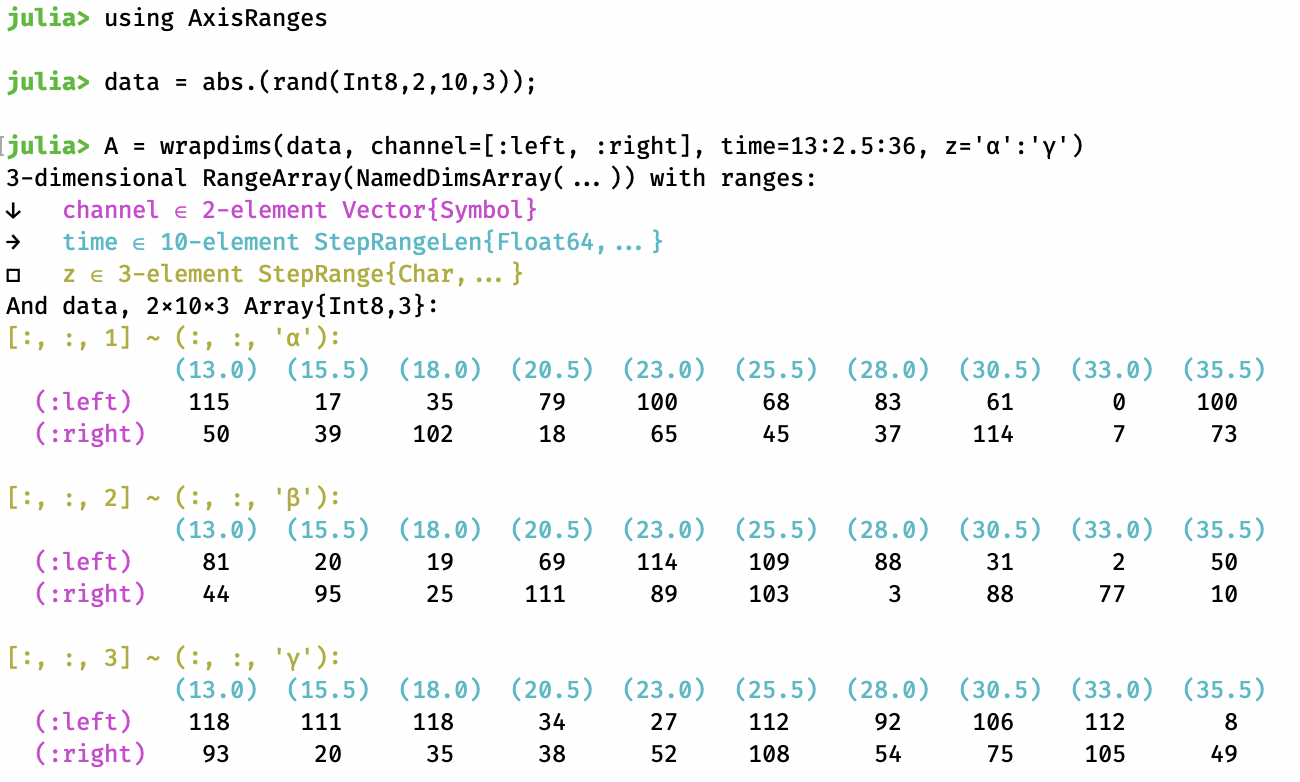
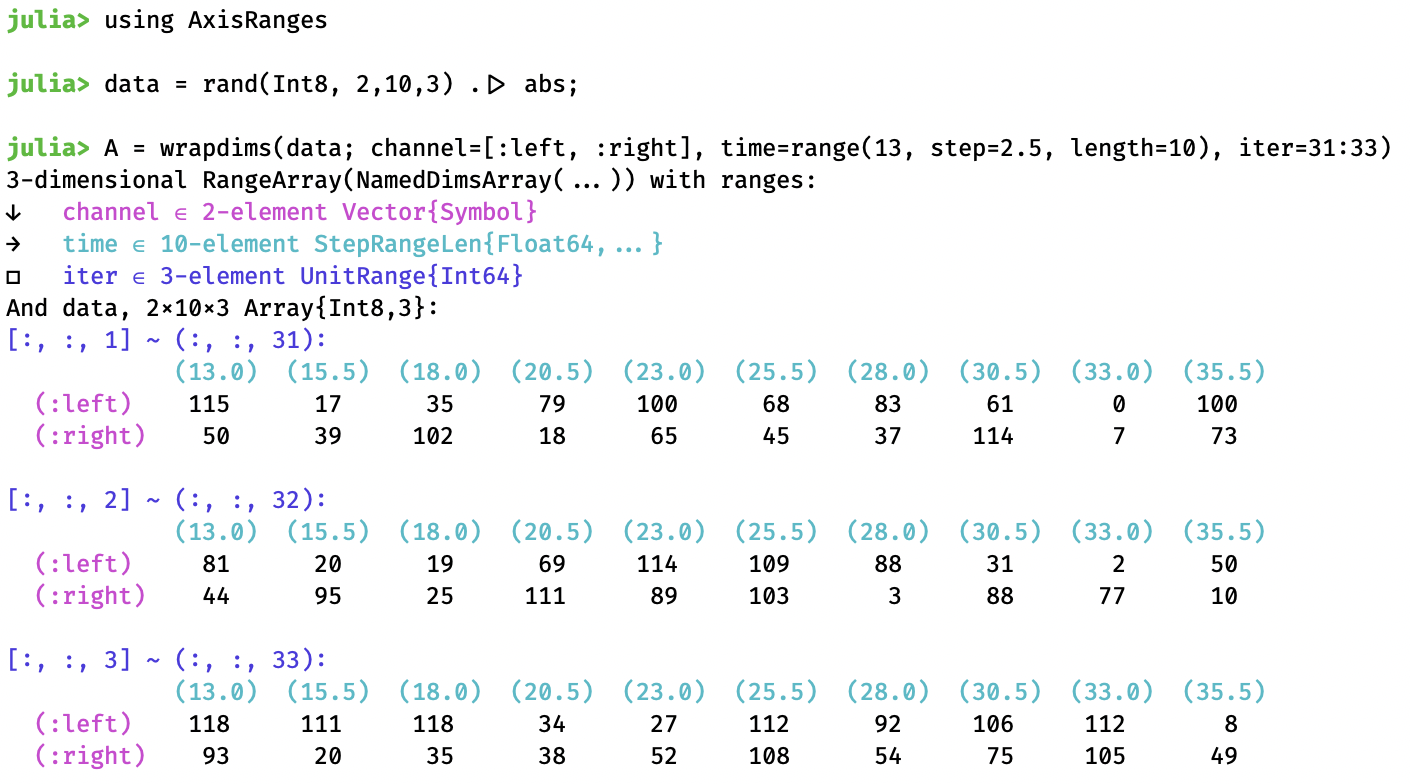
tweak

diff --git a/README.md b/README.md
@@ -16,8 +16,8 @@ for example:
 
 ```julia
 using AxisRanges
-data = abs.(rand(Int8,2,10,3));
-A = wrapdims(data, channel=[:left, :right], time=13:2.5:36, z='α':'γ')
+data = rand(Int8, 2,10,3) .|> abs;
+A = wrapdims(data; channel=[:left, :right], time=range(13, step=2.5, length=10), iter=31:33)
 ```
 
 <center>
@@ -32,28 +32,33 @@ But in addition, it is possible to pick out elements based on the new ranges,
 which for clarity we will call "lookup" based on a "key". 
 This is written with round brackets:
 
-|               | Indexing        | Lookup           |
-|---------------|-----------------|--------------------|
-| by position   | `A[1,2,:]`      | `A(:left, 15.5, :)` |
-| by name       | `A[time=1]`     | `A(time=13.0)`    |
-| `d`           | `i ∈ axes(A,d)` | `key ∈ ranges(A,d)` |   
+|                    | Indexing            | Lookup              |
+|--------------------|---------------------|---------------------|
+| by position        | `A[1,2,:]`          | `A(:left, 15.5, :)` |
+| by name            | `A[iter=1]`         | `A(iter=31)`        |
+| `d` is a dimension | `index ∈ axes(A,d)` | `key ∈ ranges(A,d)` |   
 
-When using dimension names, fixing only some of them will return a slice. 
+When using dimension names, fixing only some of them will return a slice, 
+such as `B = A[channel=1]`.
 You may also give just one key, provided its type matches those of just one dimension,
 such as `B = A(:left)` where the key is a Symbol.
 
 There are also a numer of special selectors, which work like this:
 
-|               | Indexing         | Lookup               |           |
-|---------------|------------------|----------------------|-----------|
-| one nearest   | `B[time=3]`      | `B(time=Near(17.0))`   |  vector   |
-| all in a range| `B[2:5, :]`      | `B(Interval(14,25), :)` | matrix |
-| all matching  | `B[3:end, :]`    | `B(>(17), :)`        |  matrix   |
-| mixed         | `B[1, 2]`        | `B(Index[1], 'β')`   |  scalar   |
+|                 | Indexing         | Lookup                  |         |
+|-----------------|------------------|-------------------------|---------|
+| one nearest     | `B[time=3]`      | `B(time=Near(17.0))`    | vector  |
+| all in a range  | `B[2:5, :]`      | `B(Interval(14,25), :)` | matrix  |
+| all matching    | `B[3:end, 3:3]`  | `B(>(17), ==(33))`      | matrix  |
+| mixture         | `A[1, 2, end]`   | `A(:left, Index[2], Index[end])` | scalar |
+| non-scalar      | `B[iter=[1,3]]`  | `B(iter=[31, 33])`      | matrix  |
 
-Here `Interval(13,18)` can also be written `13..18`, it's from IntervalSets.jl. 
-Any functions can be used to select keys. You may give just one `::Base.Fix2` function 
+Here `Interval(13,18)` can also be written `13..18`, it's from [IntervalSets.jl](https://github.com/JuliaMath/IntervalSets.jl). 
+Any functions can be used to select keys, including lambdas: `B(time = t -> 0<t<17)`. 
+You may give just one `::Base.Fix2` function 
 (such as `<=(18)` or `!=(20)`) provided its argument type matches the keys of one dimension.
+An interval or a function always selects via `findall`, 
+i.e. it does not drop a dimension, even if there is exactly one match. 
 
 By default lookup returns a view, while indexing returns a copy unless you add `@views`. 
 This means that you can write into the array with `B(time = <=(18)) .= 0`. 
@@ -61,9 +66,9 @@ For scalar output, you cannot of course write `B(13.0, 'α') = 0`
 as this parsed as a function definition, but you can write `B(13.0, 'α', :) .= 0`
 as a trailing colon makes a zero-dimensional view.
 
-Possibly selectors should be made to work in square brackets too,
+(Possibly selectors should be made to work in square brackets too,
 allowing mixed indexing `B[1, Key('β')] == B(Index[1], 'β')` 
-and `setkey!` via `B[Key(13.0), Key('α')] = 0`. But not yet.
+and `setkey!` via `B[Key(13.0), Key('α')] = 0`. But they don't right now.)
 
 ### Functions
 
@@ -86,11 +91,14 @@ Many functions should work, for example:
 
 * Some linear algebra functions like `*` and `\` will work. 
 
+* Getproperty returns the range, to allow things like
+  `for (i,t) in enumerate(A.time); fun(A[i], t); ...`.
+
 * Vectors support `push!(V, val)`, which will try to extend the range. 
   There is also a method `push!(V, key => val)` which pushes the key into the range. 
 
-* Getproperty returns the range, to allow things like
-  `for (i,t) in enumerate(A.time); fun(A[i], t); ...`.
+To allow for this limited mutability, `V.ranges isa Ref` for vectors, 
+while `A.ranges isa Tuple` for matrices & higher. But `ranges(A)` always returns a tuple.
 
 ### Absent
 
@@ -127,23 +135,25 @@ overloads for things like `findall(<=(42), 10:10:100)`.
 
 * There is also no automatic alignment by keys, like time. 
 
+But this can be done elsewhere...
+
 ### Elsewhere
 
 This is more or less an attempt to replace [AxisArrays](https://github.com/JuliaArrays/AxisArrays.jl) 
 with several smaller packages. The complaints are:
-(1) it's confusing  to guess whether to perform indexing or lookup 
+(1) It's confusing  to guess whether to perform indexing or lookup 
   based on whether it is given an integer (index) or not (key). 
-(2) each "range" was its own type `Axis{:name}` which allowed zero-overhead lookup
+(2) Each "range" was its own type `Axis{:name}` which allowed zero-overhead lookup
   before Julia 1.0. But this is now possible with a simpler design. 
-  (They were called axes before `Base.axes()` was added, hence the confusing terminology.)
-(3) broadcasting is not supported, as this changed dramatically in Julia 1.0.
-(4) there are lots of assorted functions, special categorical vector types, etc. 
+  (They were called axes before `Base.axes()` was added, hence (3) the confusing terminology.)
+(4) Broadcasting is not supported, as this changed dramatically in Julia 1.0.
+(5) There are lots of assorted functions, special categorical vector types, etc. 
   which aren't part of the core.
 
 Other older packages (pre-Julia-1.0):
 
 * [NamedArrays](https://github.com/davidavdav/NamedArrays.jl) also provides names & ranges, 
-ranges are always OrderedDict. Named lookup looks like `nAN[:x => 13.0]` 
+ranges are always OrderedDict. Named lookup looks like `NA[:x => 13.0]` 
 instead of `A(x=13.0)` here; this is not very fast. 
 Dimension names & ranges can be set after creation. Has nice pretty-printing routines. 
 
@@ -152,12 +162,19 @@ Only for small sizes: the storage inside is a Tuple, not an Array.
 
 * [AxisArrayPlots](https://github.com/jw3126/AxisArrayPlots.jl) has some plot recipes. 
 
+* [OffsetArrays](https://github.com/JuliaArrays/OffsetArrays.jl) actually changes the indices
+of an Array, allowing any continuous integer range, like `0:9` or `-10:10`.
+This package is happy to wrap such arrays, 
+and if needed will adjust indices of the given ranges:
+`O = wrapdims(OffsetArray(["left", "mid", "right"], -1:1), 'A':'C')`, 
+then `O[-1:0]` works.
+
 Other new packages (post-1.0):
 
 * [DimensionalData](https://github.com/rafaqz/DimensionalData.jl) is another replacement 
 for AxisArrays. It again uses types like `Dim{:name}` to store both name & range, 
 plus some special ones like `X, Y` of the same abstract type. 
-Named lookup then looks like `D[X <| At(13.0)]`, roughly like `A(x=13.0)` here.
+Named lookup then looks like `DA[X <| At(13.0)]`, roughly like `A(x=13.0)` here.
 
 * [NamedPlus](https://github.com/mcabbott/NamedPlus.jl) is some experiments using NamedDims. 
 Function `align` permutes dimensions automatically, 
@@ -165,7 +182,7 @@ and macro `@named` can introduce this into broadcasting expressions.
 
 * [IndexedDims](https://github.com/invenia/IndexedDims.jl) like this package adds ranges 
 on top of the names from NamedDims.
-These ranges must always be [AcceleratedArrays.jl](https://github.com/andyferris/AcceleratedArrays.jl). 
+These ranges must always be [AcceleratedArrays](https://github.com/andyferris/AcceleratedArrays.jl). 
 Like AxisArrays, it tries to guess whether to do indexing or lookup based on type. 
 
 * [Dictionaries](https://github.com/andyferris/Dictionaries.jl) does very fast lookup only
@@ -178,15 +195,19 @@ And see [docs/repl.jl](docs/repl.jl) for some usage examples, showing pretty pri
 For discussion, see [AxisArraysFuture](https://github.com/JuliaCollections/AxisArraysFuture/issues/1),
 and [AxisArrays#84](https://github.com/JuliaArrays/AxisArrays.jl/issues/84).
 
+
+In 🐍-land:
+
+* [xarray](http://xarray.pydata.org/) does indexing `x[:, 0]` 
+  and lookup by "coordinate label" as `x.loc[:, 'IA']`;
+  with names these become `x.isel(space=0)` and `da.sel(space='IA')`. 
+
+* [pandas](https://pandas.pydata.org) is really more like 
+  [DataFrames](https://github.com/JuliaData/DataFrames.jl), only one- and two-dimensional.
+  Writes indexing "by position" as `df.iat[1, 1]` for scalars or `df.iloc[1:3, :]` allowing slices,
+  and lookup "by label" as `df.at[dates[0], 'A']` for scalars or `df.loc['20130102':'20130104', ['A', 'B']]` for slices, "both endpoints are *included*" in this.
+
 <!--
-In python-land:
-
-* [xarrays](??) does lookup by "coordinate label" as `x.iloc[]`??
-
-* [pandas](??) is really more like [DataFrames](??), only one and two-dimensional.
-  Does `x.loc[]` ??
-
-
 ### Words
 
 This package isn't registered yet, partly because what to call things is unclear. 
